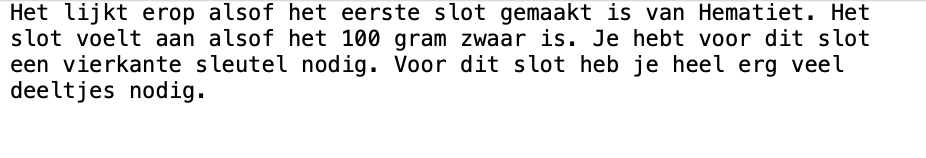
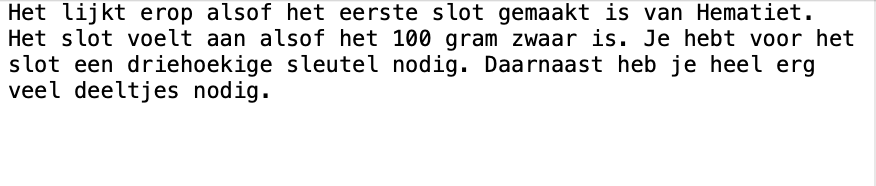
added explanation + input for puzzle 1

Changed region(s): [[0.0, 0.0, 0.9863, 0.6582]]

diff --git a/index.html b/index.html
@@ -44,7 +44,7 @@
     </a-assets>
 
     <!-- <a-camera id="js--camera" position="0 1.6 7"> -->
-    <a-camera id="js--camera" position="-7 1.6 0">
+    <a-camera id="js--camera" position="0 1.6 7">
       <a-entity
         animation__click="property: scale; startEvents: click; easing: easeInCubic; dur: 150; from: 0.1 0.1 0.1; to: 1 1 1"
         animation__fusing="property: scale; startEvents: fusing; easing: easeInCubic; dur: 2000; from: 1 1 1; to: 0.1 0.1 0.1"
@@ -67,8 +67,8 @@
         <a-cylinder class="js--place js--interact" color="grey" radius="0.5" height="0.1" position="5.8 0 1.2"></a-cylinder>
         <a-cylinder class="js--place js--interact" color="grey" radius="0.5" height="0.1" position="5.8 0 -1.2"></a-cylinder>
 
-        <a-cylinder class="js--place js--interact" color="grey" radius="0.5" height="0.1" position="-5.8 0 1.2"></a-cylinder>
-        <a-cylinder class="js--place js--interact" color="grey" radius="0.5" height="0.1" position="-5.8 0 -1.2"></a-cylinder>
+        <a-cylinder class="js--place js--interact" color="grey" radius="0.5" height="0.1" position="-6.5 0 1.2"></a-cylinder>
+        <a-cylinder class="js--place js--interact" color="grey" radius="0.5" height="0.1" position="-6.7 0 -0.5"></a-cylinder>
 
         <a-cylinder class="js--place js--interact" color="grey" radius="0.5" height="0.1" position="0 0 2"></a-cylinder>
         <a-cylinder class="js--place js--interact" color="grey" radius="0.5" height="0.1" position="0 0 -2"></a-cylinder>
@@ -471,7 +471,7 @@
 
 
   <!-- Deel Gijs -->
-  <!-- Tafel -->
+  <!-- Tafel + doosje -->
   <a-box color="#303030" position="-8.37 1 0" height="0.1" depth="4" width="1.25">
     <a-cylinder color="white" position="0.45 -0.5 1.8" height="1" radius="0.1"></a-cylinder>
     <a-cylinder color="white" position="-0.45 -0.5 1.8" height="1" radius="0.1"></a-cylinder>
@@ -502,38 +502,64 @@
       <a-box color="grey" scale="0.03 0.04 0.03" position="0 0.1 0.015"></a-box>
 
       <!-- Slot -->
-      <a-box id="js--triangleKeyBoxLock" class="js--interact" color="red" position="0 0.02 0.03" rotation="-10 0 0" height="0.01" width="0.01" depth="0.01" opacity="0.0">
-        <a-box class="js--slot js--interact" material="src: #gold" position="0 0 0" scale="0.1 0.1 0.05" opacity="1"></a-box>
-        <a-torus class="js--slot js--interact" material="src: #iron" position="0 0.055 0" radius="0.03" radius-tubular="0.0054" opacity="1"></a-torus>
-      </a-box>
+      <a-entity position="0 0.02 0.03" rotation="-10 0 0">
+        <a-box class="js--triangleKeyBoxLock" material="src: #gold" position="0 0 0" scale="0.1 0.1 0.05" opacity="1"></a-box>
+        <a-torus class="js--triangleKeyBoxLock" material="src: #iron" position="0 0.055 0" radius="0.03" radius-tubular="0.0054" opacity="1"></a-torus>
+      </a-entity>
 
       <!-- Sleutel -->
-      <a-entity position="-0.1 -0.05 -0.4" obj-model="obj: #triangleKey-obj; mtl: #triangleKey-mtl" scale="0.08 0.08 0.08" rotation="0 45 0"></a-entity>
+      <a-entity class="js--pickup" position="-0.1 -0.05 -0.4" obj-model="obj: #triangleKey-obj; mtl: #triangleKey-mtl" scale="0.08 0.08 0.08" rotation="0 45 0"></a-entity>
 
     </a-plane>
   </a-box>
 
   <a-entity class="puzzleOne" position="-8.99 2.5 1" rotation="0 90 0">
     <a-entity class="puzzleOne--leftNumber">
-      <a-triangle id="js--puzzleOneLeftNumberUp" class="js--interact" color="grey" scale="0.5 0.5 0.5" position="0 0.8 0"></a-triangle>
-      <a-plane color="white" position="0 0 0" width="0.75" align="center">
+      <a-triangle id="js--puzzleOneLeftNumberUp" class="js--puzzleOneTriangle js--interact" color="grey" scale="0.5 0.5 0.5" position="0 0.8 0"></a-triangle>
+      <a-plane class="js--puzzleOnePlane" color="white" position="0 0 0" width="0.75" align="center">
         <a-text id="js--puzzle1--valueOne" value="0" color="black" align="center" width="10"></a-text>
       </a-plane>
-      <a-triangle id="js--puzzleOneLeftNumberDown" class="js--interact" color="grey" scale="0.5 0.5 0.5" rotation="0 0 180" position="0 -0.8 0"></a-triangle>
+      <a-triangle id="js--puzzleOneLeftNumberDown" class="js--puzzleOneTriangle js--interact" color="grey" scale="0.5 0.5 0.5" rotation="0 0 180" position="0 -0.8 0"></a-triangle>
+    </a-entity>
+    <a-text class="comma" value="," color="black" align="center" width="10" position="0.4 0 0"></a-text>
+    <a-entity class="puzzleOne--middleNumber" position="0.75 0 0">
+      <a-triangle id="js--puzzleOneMiddleNumberUp" class="js--puzzleOneTriangle js--interact" color="grey" scale="0.5 0.5 0.5" position="0 0.8 0"></a-triangle>
+      <a-plane class="js--puzzleOnePlane" color="white" position="0 0 0" width="0.75" align="center">
+        <a-text id="js--puzzle1--valueTwo" value="0" color="black" align="center" width="10"></a-text>
+      </a-plane>
+      <a-triangle id="js--puzzleOneMiddleNumberDown" class="js--puzzleOneTriangle js--puzzleOneTriangle js--interact" color="grey" scale="0.5 0.5 0.5" rotation="0 0 180" position="0 -0.8 0"></a-triangle>
+    </a-entity>
+    <a-entity class="puzzleOne--rightNumber" position="1.5 0 0">
+      <a-triangle id="js--puzzleOneRightNumberUp" class="js--puzzleOneTriangle js--interact" color="grey" scale="0.5 0.5 0.5" position="0 0.8 0"></a-triangle>
+      <a-plane class="js--puzzleOnePlane" color="white" position="0 0 0" width="0.75" align="center">
+        <a-text id="js--puzzle1--valueThree" value="0" color="black" align="center" width="10"></a-text>
+      </a-plane>
+      <a-triangle id="js--puzzleOneRightNumberDown" class="js--puzzleOneTriangle js--interact" color="grey" scale="0.5 0.5 0.5" rotation="0 0 180" position="0 -0.8 0"></a-triangle>
+    </a-entity>
+    <a-entity class="puzzleOne--E27" position="2.25 0 0">
+      <a-plane class="js--puzzleOnePlane" color="white" position="0 0 0" width="1" align="center">
+        <a-text value="E27" color="black" align="center" width="10"></a-text>
+      </a-plane>
     </a-entity>
   </a-entity>
 
-
-  <!-- <a-plane src="#instructiePapiertje" position="-8.99 2 0" rotation="0 90 0" width="2.5" height="1"></a-plane> -->
+  <!-- PuzzleOneHint -->
+  <a-entity position="-7.5 1.5 3.5" rotation="0 135 0" opacity="0">
+    <a-box class="js--puzzleOneHint" color="grey" width="2.6" height="1.1" depth="0.1" opacity="0" rotation="-10 0 0"></a-box>
+    <a-plane class="js--puzzleOneHint" src="#instructiePapiertje" position="0 0 0.075" width="2.5" height="1" opacity="0" rotation="-10 0 0"></a-plane>
+    <a-box color="#303030" height="1.5" depth="0.2" width="0.2" position="-1 -1 0"></a-box>
+    <a-box color="#303030" height="1.5" depth="0.2" width="0.2" position="1 -1 0"></a-box>
+  </a-entity>
 
   <!-- TODO Gijs:
   1. Doosje maken ✅
     1.1 Sleutel in doosje ✅
-  2. Invulpanel maken voor 9,61
-    2.0 Panels maken om getallen in te vullen
-    2.1 Zorgen dat 9,61 gemaakt kan worden
-    2.2 Zorgen dat je een visuele goedkeuring krijgt wanneer 9,61 is ingevuld
-  3. Slot toevoegen dat open gaat wanneer je 9,61 invult
+  2. Invulpanel maken voor 9,61 ✅
+    2.0 Panels maken om getallen in te vullen ✅
+    2.1 Zorgen dat 9,61 gemaakt kan worden ✅
+    2.2 Zorgen dat je een visuele goedkeuring krijgt wanneer 9,61 is ingevuld ✅
+      2.2.1 Alle planes groen maken en de pijltjes weghalen ✅
+  3. Slot toevoegen dat open gaat wanneer je 9,61 invult ✅
   4. Er achter komen hoeveel gram het slot is
     4.1 Andere foto laten zien wanneer deze waarde gevonden is
   -->

diff --git a/js/main.js b/js/main.js
@@ -6,13 +6,23 @@ window.onload = () => {
   const placeholders = document.getElementsByClassName('js--placeholder');
   const doosjeBovenkant = document.getElementById('js--rotateBoxTop');
   const triangleKeyBox = document.getElementById('js--keyBox');
-  const triangleKeyBoxLock = document.getElementById('js--triangleKeyBoxLock');
+  const triangleKeyBoxLock = document.getElementsByClassName('js--triangleKeyBoxLock');
   const puzzleOneLeftNumberUp = document.getElementById('js--puzzleOneLeftNumberUp');
   const puzzleOneLeftNumberDown = document.getElementById('js--puzzleOneLeftNumberDown');
+  const puzzleOneMiddleNumberUp = document.getElementById('js--puzzleOneMiddleNumberUp');
+  const puzzleOneMiddleNumberDown = document.getElementById('js--puzzleOneMiddleNumberDown');
+  const puzzleOneRightNumberUp = document.getElementById('js--puzzleOneRightNumberUp');
+  const puzzleOneRightNumberDown = document.getElementById('js--puzzleOneRightNumberDown');
+  const puzzleOnePlanes = document.getElementsByClassName('js--puzzleOnePlane');
+  const puzzleOneTriangles = document.getElementsByClassName('js--puzzleOneTriangle');
+  const puzzleOneHints = document.getElementsByClassName('js--puzzleOneHint');
 
   let puzzleOneLeftNumber = 0;
-
+  let puzzleOneMiddleNumber = 0;
+  let puzzleOneRightNumber = 0;
   let puzzleOneValueOne = document.getElementById('js--puzzle1--valueOne');
+  let puzzleOneValueTwo = document.getElementById('js--puzzle1--valueTwo');
+  let puzzleOneValueThree = document.getElementById('js--puzzle1--valueThree');
   let pickups = document.getElementsByClassName('js--pickup');
   let hold = null;
   let box1 = document.getElementById("js--hold1");
@@ -35,8 +45,6 @@ window.onload = () => {
     console.log("BOOOOMMMM");
     this.remove();
   })
-
-  openTriangleKeyBox();
 
   const bekerCarry = document.getElementById("js--bekerCarry");
 
@@ -262,6 +270,15 @@ window.onload = () => {
     }
     }
 
+    // Attach to looking at the first keylock on the bomb
+    puzzleOneHintAppear();
+
+    function puzzleOneHintAppear() {
+      for (var i = 0; i < puzzleOneHints.length; i++) {
+        puzzleOneHints[i].setAttribute('opacity', '1');
+      }
+    }
+
     puzzleOneLeftNumberUp.addEventListener('click', function(event) {
       if (puzzleOneLeftNumber === 9) {
         puzzleOneLeftNumber = 0;
@@ -269,7 +286,7 @@ window.onload = () => {
         puzzleOneLeftNumber += 1;
       }
       puzzleOneValueOne.setAttribute('value', puzzleOneLeftNumber);
-      console.log(puzzleOneLeftNumber);
+      updatePuzzleOne();
     });
 
     puzzleOneLeftNumberDown.addEventListener('click', function(event) {
@@ -279,12 +296,68 @@ window.onload = () => {
         puzzleOneLeftNumber -= 1;
       }
       puzzleOneValueOne.setAttribute('value', puzzleOneLeftNumber);
-      console.log(puzzleOneLeftNumber);
+      updatePuzzleOne();
     });
 
+    puzzleOneMiddleNumberUp.addEventListener('click', function(event) {
+      if (puzzleOneMiddleNumber === 9) {
+        puzzleOneMiddleNumber = 0;
+      } else {
+        puzzleOneMiddleNumber += 1;
+      }
+      puzzleOneValueTwo.setAttribute('value', puzzleOneMiddleNumber);
+      updatePuzzleOne();
+    });
+
+    puzzleOneMiddleNumberDown.addEventListener('click', function(event) {
+      if (puzzleOneMiddleNumber === 0) {
+        puzzleOneMiddleNumber = 9;
+      } else {
+        puzzleOneMiddleNumber -= 1;
+      }
+      puzzleOneValueTwo.setAttribute('value', puzzleOneMiddleNumber);
+      updatePuzzleOne();
+    });
+
+    puzzleOneRightNumberUp.addEventListener('click', function(event) {
+      if (puzzleOneRightNumber === 9) {
+        puzzleOneRightNumber = 0;
+      } else {
+        puzzleOneRightNumber += 1;
+      }
+      puzzleOneValueThree.setAttribute('value', puzzleOneRightNumber);
+      updatePuzzleOne();
+    });
+
+    puzzleOneRightNumberDown.addEventListener('click', function(event) {
+      if (puzzleOneRightNumber === 0) {
+        puzzleOneRightNumber = 9;
+      } else {
+        puzzleOneRightNumber -= 1;
+      }
+      puzzleOneValueThree.setAttribute('value', puzzleOneRightNumber);
+      updatePuzzleOne();
+    });
+
+    function updatePuzzleOne() {
+      if (puzzleOneLeftNumber === 9 && puzzleOneMiddleNumber === 9 && puzzleOneRightNumber === 1) {
+        openTriangleKeyBox();
+        for (var i = 0; i < puzzleOnePlanes.length; i++) {
+          puzzleOnePlanes[i].setAttribute('color', 'green');
+        }
+        // In the second for loop i needs to stay at 0 because the array of HTML Elements
+        // changes after every removal, which means first it's 0-5, then 0-4, 0-3
+        // meaning if I use i++ it will remove only half of the array
+        for (var i = 0; i < puzzleOneTriangles.length; i) {
+          puzzleOneTriangles[i].remove();
+        }
+      }
+    }
 
     function openTriangleKeyBox() {
-      triangleKeyBoxLock.setAttribute("animation","property: opacity; to: 0.0; dur: 2000; easeing: linear; loop: false;");
+      for (var i = 0; i < triangleKeyBoxLock.length; i++) {
+        triangleKeyBoxLock[i].setAttribute("animation","property: opacity; to: 0.0; dur: 2000; easeing: linear; loop: false;");
+      }
       setTimeout(function () {
         doosjeBovenkant.setAttribute("animation","property: rotation; to: -30 0 0; dur: 2000; easing: linear; loop: false");
         setTimeout(function () {
